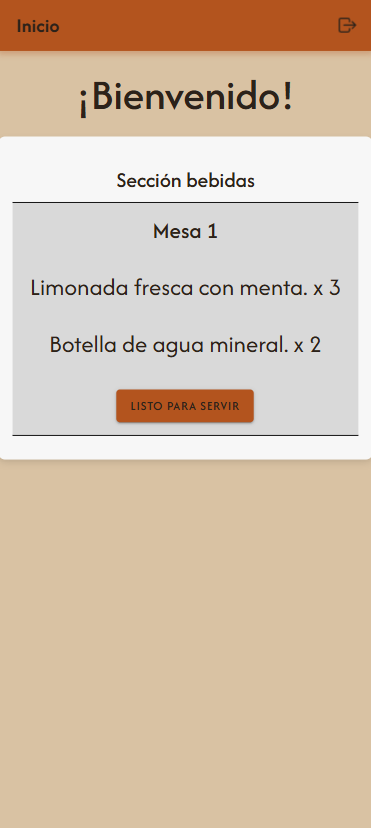
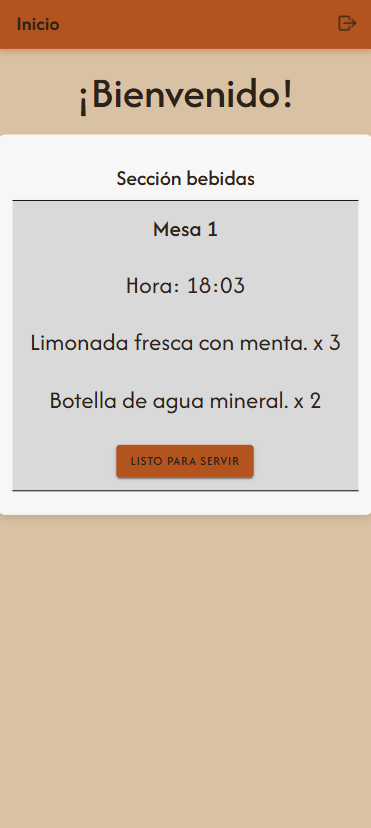
Agregando imagenes para readme

diff --git a/src/app/components/seccion-bartender/seccion-bartender.component.ts b/src/app/components/seccion-bartender/seccion-bartender.component.ts
@@ -1,4 +1,4 @@
-import { CommonModule } from '@angular/common';
+import { CommonModule, formatDate } from '@angular/common';
 import { Component, inject, OnDestroy, OnInit } from '@angular/core';
 import { FormsModule } from '@angular/forms';
 import { Subscription } from 'rxjs';
@@ -57,6 +57,10 @@ export class SeccionBartenderComponent  implements OnInit , OnDestroy{
     //enviar push al mozo para decirle que el pedidod en comida esta listo para servir
   }
 
+  ConvertirTimeStamp(fecha:any){
+    const date  =  new Date(fecha * 1000);
+    return formatDate(date,'HH:mm', 'en-Us');
+  }
   ngOnDestroy(): void {
     this.subPedidos.unsubscribe();
   }

diff --git a/src/app/components/seccion-bartender/seccion-bartender.component.html b/src/app/components/seccion-bartender/seccion-bartender.component.html
@@ -6,6 +6,7 @@
     @for (pedido of pedidosFiltrados; track $index) {
       <div class="row-pedido">
         <h3 class="title-mesa">{{ pedido.mesa }}</h3>
+        <p class="p-mostrar-producto">Hora: {{ ConvertirTimeStamp(pedido.fecha) }}</p>
         <div class="pedido" *ngFor="let producto of pedido.productos">
           @if(esDeBar(producto.descripcion)){
 
